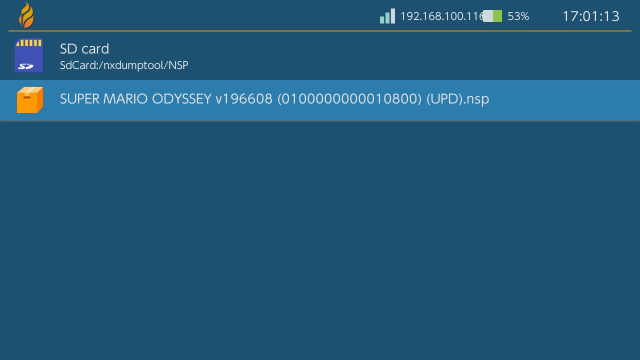
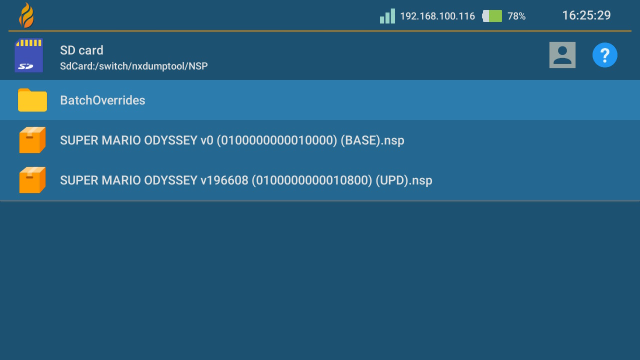
Update dump guide

diff --git a/guides/switchdumpguide/index.html b/guides/switchdumpguide/index.html
@@ -246,7 +246,7 @@
         <div class="col-md-9" role="main">
 
 <h1 id="switch-dump-and-install-guide">Switch Dump and Install Guide</h1>
-<p>This guide has been made and tested using goldleaf 0.6.1 and nxdumptool 1.1.3</p>
+<p>This guide has been made and tested using goldleaf 0.7.3 and nxdumptool 1.1.7</p>
 <div class="admonition danger">
 <p class="admonition-title">Ban risk</p>
 <p>Installing any sort of nsp's gets you banned as soon as you connect to Nintendo services. AFTER INSTALLING ANY NSP, KEEP YOUR SYSTEM PERMANENTLY OFFLINE!</p>
@@ -258,6 +258,10 @@
 <div class="admonition warning">
 <p class="admonition-title">Remove all your wifi networks / set up 90dns on all your wifi networks</p>
 <p>Again, in preparation for this you need to remove all your wifi networks or set up 90dns on all your wifi networks. Do this now. To set up 90dns, <a href="https://gitlab.com/a/90dns#usage-on-switch">click here</a></p>
+</div>
+<div class="admonition note">
+<p class="admonition-title">Bugs with updates</p>
+<p>If you experience a bug while installing gamecart based updates, contact me via discord (<code>Such Meme, Many Skill#2921</code>). This is something that's not completely understood yet.</p>
 </div>
 <h2 id="step-1-preparations">Step 1: Preparations</h2>
 <p>This bit will get you the required files and programs for installing cart dumps</p>
@@ -282,12 +286,11 @@
 </li>
 </ol>
 <h2 id="step-2-the-dump">Step 2: The Dump</h2>
+<p><img alt="NXDUMP1" src="../Img/Main_NXDUMP.png" /></p>
 <h3 id="instructions_1">Instructions</h3>
 <ol>
 <li>Open the Homebrew Menu and open nxdumptool</li>
-<li>Select <code>Dump gamecard content</code>, after some loading you should get this screen:
-<img alt="NXDUMP1" src="../Img/Main_NXDUMP.png" /></li>
-<li>Select <code>Nintendo Submission Package (NSP) dump</code><ul>
+<li>Select <code>Dump gamecard content</code>, then <code>Nintendo Submission Package (NSP) dump</code><ul>
 <li>If you get a selection between the base application and the bundled update do the base application first</li>
 </ul>
 </li>
@@ -299,7 +302,7 @@
 <li>It will now start dumping your cart</li>
 </ul>
 </li>
-<li>When done, press any button to return to the last menu, press b a bunch more to return to the main dump menu. If your cartridge also contains a game update refollow step 3 to 5 again but instead dump the game update.</li>
+<li>When done, press any button to return to the last menu, press b a bunch more to return to the main dump menu. If your cartridge also contains a game update refollow step 2 to 4 again but instead dump the game update.</li>
 <li>Press + to exit to the hbmenu</li>
 </ol>
 <p>Your game dump got dumped in the /nxdumptool/nsp folder</p>
@@ -309,20 +312,23 @@
 <p>There is quite important information about ban risk up there.
 Also, if you haven't removed your wifi networks/set up <a href="https://gitlab.com/a/90dns#usage-on-switch">90dns</a> yet, do so now</p>
 </div>
+<div class="admonition danger">
+<p class="admonition-title">Eject your Gamecart before the install!</p>
+<p>A bug has been identified that prevents you from opening the game after you've installed the gamecarts included gamecart update. Remove the gamecart before you install the dumps!</p>
+</div>
 <ol>
 <li>Open the Homebrew Menu and open Goldleaf</li>
 <li>Select <code>Explore content</code></li>
 <li>Select <code>SD card</code></li>
-<li>Navigate to and select <code>nxdumptool</code></li>
-<li>Navigate to and select <code>NSP</code>. You should be here now:
+<li>Navigate to and select <code>switch</code>, then <code>nxdumptool</code>, then <code>NSP</code>. You should be here now:
 <img alt="GLEAF1" src="../Img/Folder_GOLDLEAF.png" /></li>
 <li>Install your BASE dump of the game by selecting the nsp with A, then selecting <code>Install</code>, then selecting <code>SD card</code>, then selecting <code>Install</code> again<ul>
 <li>If you also dumped your game update, install the update nsp the same way too</li>
 </ul>
 </li>
-<li>After the install(s) finished installing, Press + to exit to the hbmenu or the home button to exit to the home menu.</li>
+<li>After the install(s) finished installing, Press - to exit to the hbmenu or the home button to exit to the home menu.</li>
 </ol>
-<p>You should now see your cart dump installed after you take out the game cart. You can delete or move the nsp files in /nxdumptool/nsp to your pc.</p></div>
+<p>You should now see your cart dump installed. You can delete or move the nsp files in /switch/nxdumptool/nsp to your pc.</p></div>
         
         
     </div>

diff --git a/index.html b/index.html
@@ -334,5 +334,5 @@
 
 <!--
 MkDocs version : 1.0.4
-Build Date UTC : 2019-09-17 15:57:41
+Build Date UTC : 2019-10-28 15:35:01
 -->
